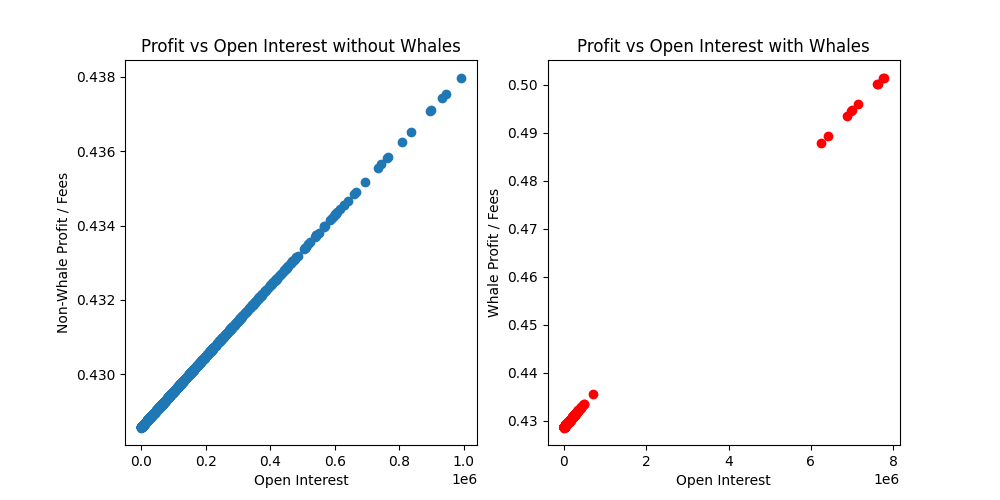
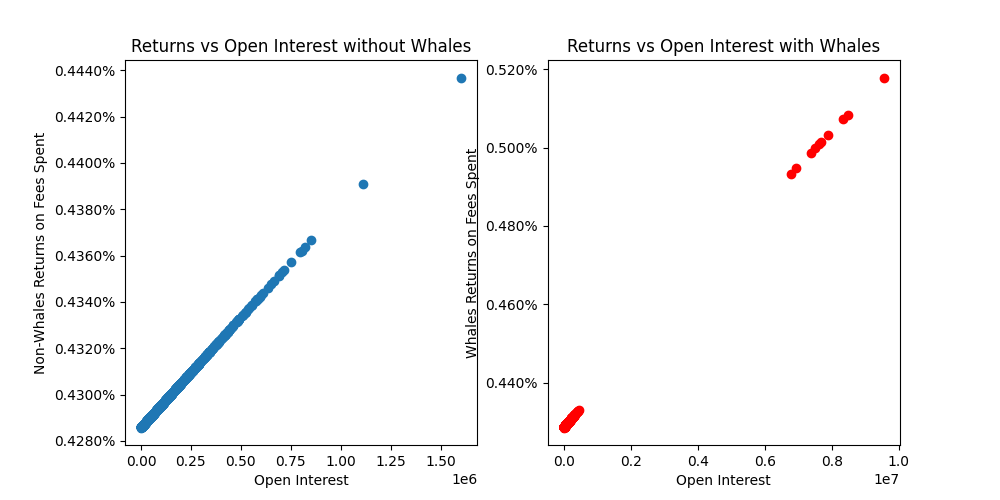
Changes to plotting

diff --git a/trading_mechanisms/analysis.py b/trading_mechanisms/analysis.py
@@ -1,8 +1,7 @@
 import matplotlib.pyplot as plt
 import numpy as np
 import pandas as pd
-import sympy as sp
-import random
+import matplotlib.ticker as mtick
 
 from utils import *
 
@@ -128,8 +127,9 @@ def plot5(R, p, alpha, open_interest):
 
     axs[0].scatter(*zip(*results))
     axs[0].set_xlabel("Open Interest")
-    axs[0].set_ylabel("Non-Whale Profit / Fees")
-    axs[0].set_title("Profit vs Open Interest without Whales")
+    axs[0].set_ylabel("Non-Whales Returns on Fees Spent")
+    axs[0].yaxis.set_major_formatter(mtick.PercentFormatter())
+    axs[0].set_title("Returns vs Open Interest without Whales")
 
     # With whales
     d_mkt, f_mkt = find_equilibrium(open_interest, \
@@ -140,10 +140,10 @@ def plot5(R, p, alpha, open_interest):
     results = sorted(list(zip(d_mkt, profits / f_mkt)), key=lambda x : x[1])
 
     axs[1].scatter(*zip(*results), color='red')
-    axs[1].set_ylabel("Whale Profit / Fees")
+    axs[1].set_ylabel("Whales Returns on Fees Spent")
     axs[1].set_xlabel("Open Interest")
-    axs[1].set_title("Profit vs Open Interest with Whales")
-    
+    axs[1].set_title("Returns vs Open Interest with Whales")
+    axs[1].yaxis.set_major_formatter(mtick.PercentFormatter())
     fig.savefig(PATH + "plot5.png")
     return
 
@@ -213,6 +213,30 @@ def plot8(alpha):
     fig.savefig(PATH + "plot8.png")
     return
 
+def plot9(open_interest, R, alpha):
+    fig, ax = plt.subplots(1, 1, figsize=(10, 5))
+
+    prices = [2.5, 5, 7.5, 10, 12.5, 15]
+    sums = []
+    for price in prices:
+        _, f_mkt = find_equilibrium(open_interest, n=1000, R=R, alpha=alpha, p=price, num_whales=10, whale_alpha=100)
+        sums.append(sum(f_mkt))
+
+    ax.scatter(prices, sums, label="Sum of Fees paid")
+    ax.set_xticks([2.5, 5, 7.5, 10, 12.5, 15])
+
+    x = np.linspace(2.5, 15, 100)
+    y = x * 0.7 * R
+    ax.plot(x, y, color="red", label="0.7Rp")
+
+    ax.legend()
+    ax.set_title('Fees Paid by DYDX Token Price')
+    ax.set_ylabel('Fees Paid')
+    ax.set_xlabel('DYDX Price')
+
+    fig.savefig(PATH + "plot9.png")
+    return
+
 def main():
     """
     This creates all the tables and plot for our analysis.
@@ -253,6 +277,10 @@ def main():
     # (8) Plot of our predictions vs actual data
     print("Generating plot 8... ")
     plot8(alpha)
+
+    # (9) Plot of our predictions vs actual data
+    print("Generating plot 9... ")
+    plot9(open_interest, R, alpha)
     
     return
 
